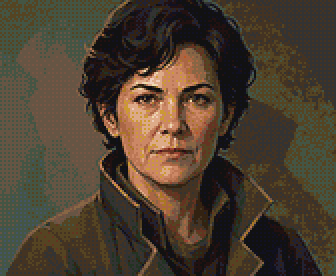
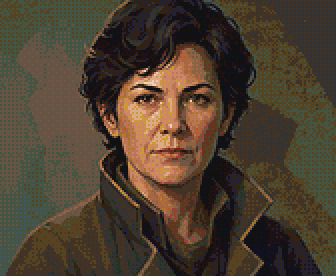
Adopt vibrant foreground style guidance

diff --git a/tools/cards/style_pipeline.py b/tools/cards/style_pipeline.py
@@ -25,8 +25,8 @@ PIPELINE_DESCRIPTIONS = {
     FACE_FREE_PIPELINE_ID: "Generates a matted foreground, then applies a deterministic renderer-owned background.",
     PORTRAIT_REFERENCE_PIPELINE_ID: "Uses the original portrait reference from historical Pipelines 01/02.",
 }
[5 lines of base64/hex data omitted]
 LEGACY_SIMULATION_MODEL_ID = "fake/painterly-deterministic"
 SIMULATION_MODEL_IDS = {LEGACY_SIMULATION_MODEL_ID, "fake/amiga-ocs-deterministic"}
@@ -224,7 +224,7 @@ def legacy_amiga_style(style: dict[str, Any]) -> dict[str, Any]:
         "palette_space": renderer["palette_space"],
         "palette": list(renderer["palette"]),
         "dither": dict(renderer["dither"]),
-        "preprocess": {"color": float(preprocess.get("color", 0.88)), "contrast": float(preprocess.get("contrast", 1.08)), "unsharp_radius": float(preprocess.get("unsharp_radius", 0.8)), "unsharp_percent": int(preprocess.get("unsharp_percent", 90)), "unsharp_threshold": int(preprocess.get("unsharp_threshold", 5))},
+        "preprocess": {"color": float(preprocess.get("color", 1.0)), "contrast": float(preprocess.get("contrast", 1.02)), "unsharp_radius": float(preprocess.get("unsharp_radius", 0.8)), "unsharp_percent": int(preprocess.get("unsharp_percent", 90)), "unsharp_threshold": int(preprocess.get("unsharp_threshold", 5))},
         "card_text": dict(card.get("text") or {}),
     }
 

diff --git a/tools/cards/amiga.py b/tools/cards/amiga.py
@@ -81,8 +81,8 @@ def _prepare_master(master: Image.Image, logical_size: tuple[int, int], centerin
     selected = (style or load_amiga_style())
     selected = selected.get("renderer", selected)
     preprocess = selected.get("preprocess") or {}
-    source = ImageEnhance.Color(source).enhance(float(preprocess.get("color", 0.88)))
-    source = ImageEnhance.Contrast(source).enhance(float(preprocess.get("contrast", 1.08)))
+    source = ImageEnhance.Color(source).enhance(float(preprocess.get("color", 1.0)))
+    source = ImageEnhance.Contrast(source).enhance(float(preprocess.get("contrast", 1.02)))
     return source.filter(ImageFilter.UnsharpMask(radius=float(preprocess.get("unsharp_radius", 0.8)), percent=int(preprocess.get("unsharp_percent", 90)), threshold=int(preprocess.get("unsharp_threshold", 5))))
 
 
